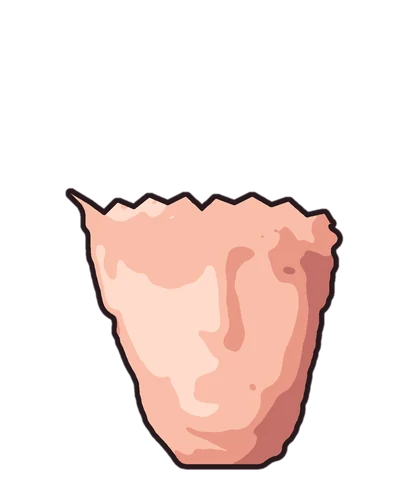
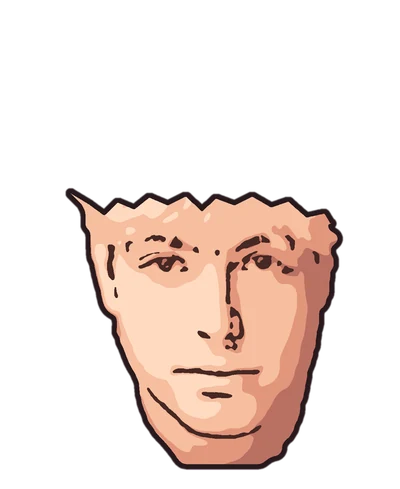
Gem: viso con i lineamenti veri della foto al posto di quelli disegnati
Occhi, sopracciglia, naso e bocca tornano quelli della foto, a ombre
piatte e tratti a inchiostro; via orecchie, guance e ghigno vettoriali che
deformavano il viso. Frangia argento più alta per lasciare scoperti occhi e
sopracciglia; al posto di palpebre e bocca animate, mentre parla la testa
fa un cenno.

Claude-Session: https://claude.ai/code/session_014retLKvTUoh9JjG1YmHHGV

diff --git a/src/components/tour/clash/GemCharacter.tsx b/src/components/tour/clash/GemCharacter.tsx
@@ -4,11 +4,12 @@ const FACE_SRC = "/tour/gem-viso.webp";
 
 /** Gem, il boia dei Test fisici: caricatura in stile "Clash" di un
  * allenatore vestito da boia — cappuccio abbassato, imbracatura di cuoio,
- * scure a doppia lama e fischietto. Il viso è un'immagine a ombre piatte
- * ricavata da una foto (public/tour/gem-viso.webp); capelli, orecchie,
- * occhi, bocca e costume sono vettoriali, così occhi e bocca si possono
- * animare (vedi .gem-* in globals.css). Gli id interni passano da useId:
- * due istanze nella stessa pagina non si rubano clipPath e maschere. */
+ * scure a doppia lama e fischietto. Il viso, con i suoi lineamenti veri, è
+ * un'immagine a ombre piatte e tratti a inchiostro ricavata da una foto
+ * (public/tour/gem-viso.webp); capelli e costume sono vettoriali. Mentre
+ * "parla" la testa fa un cenno (vedi .gem-head in globals.css). Gli id
+ * interni passano da useId: due istanze nella stessa pagina non si rubano
+ * clipPath e maschere. */
 export function GemCharacter({ className, talking = false }: { className?: string; talking?: boolean }) {
   const uid = useSvgUid();
 
@@ -247,188 +248,68 @@ function useSvgUid() {
   return useId().replace(/[^a-zA-Z0-9_-]/g, "");
 }
 
-/** Capelli, viso, orecchie e lineamenti, nelle coordinate della testa. */
+/** Viso e capelli, nelle coordinate della testa. */
 function GemHeadArt({ uid }: { uid: string }) {
   return (
     <>
-      {/* orecchie (dietro al viso) */}
-      <g stroke="#28191D" strokeWidth="10" strokeLinejoin="round">
-        <path d="M138 408 C112 392 92 404 94 432 C96 462 116 482 146 480 Z" fill="#F1A58C" />
-        <path d="M492 414 C518 398 538 410 536 438 C534 466 514 486 486 484 Z" fill="#F1A58C" />
-      </g>
-      <path
-        d="M126 418 C112 418 108 436 114 452 C118 462 126 466 134 464"
-        fill="none"
-        stroke="#C9776A"
-        strokeWidth="5"
-        strokeLinecap="round"
-      />
-      <path
-        d="M504 424 C518 424 522 442 516 458 C512 468 504 472 496 470"
-        fill="none"
-        stroke="#C9776A"
-        strokeWidth="5"
-        strokeLinecap="round"
-      />
-      <image href={FACE_SRC} x="0" y="0" width="605" height="740" />
-      <mask id={`${uid}faceAlpha`} style={{ maskType: "alpha" }}>
+      <g className="gem-head">
         <image href={FACE_SRC} x="0" y="0" width="605" height="740" />
-      </mask>
-      {/* capelli */}
-      <defs>
-        <clipPath id={`${uid}hairClip`}>
-          <path d="M127 318 Q100 319 89 310 Q86 280 82 252 Q51 252 38 243 Q42 211 45 182 Q12 164 7 154 Q40 133 69 112 Q63 86 69 83 Q105 79 138 73 Q143 52 152 49 Q184 52 214 53 Q223 24 232 18 Q262 38 290 55 Q312 29 340 27 Q349 34 360 39 Q395 25 423 30 Q426 50 432 68 Q472 66 496 86 Q494 99 495 111 Q533 99 562 105 Q559 125 559 144 Q586 173 591 200 Q570 208 553 218 Q577 251 577 281 Q558 287 543 296 Q550 335 538 360 Q520 354 503 352 Q531 378 522 404 Q514 372 486 348 Q480 387 462 398 Q456 366 430 342 Q421 380 400 390 Q396 360 372 338 Q361 382 338 398 Q312 365 306 340 Q280 379 266 390 Q241 360 236 338 Q207 380 190 394 Q165 365 160 344 Q138 361 128 350 Q114 334 127 318 Z" />
-        </clipPath>
-      </defs>
-      <path
-        mask={`url(#${uid}faceAlpha)`}
-        transform="translate(0 14)"
-        d="M127 318 Q100 319 89 310 Q86 280 82 252 Q51 252 38 243 Q42 211 45 182 Q12 164 7 154 Q40 133 69 112 Q63 86 69 83 Q105 79 138 73 Q143 52 152 49 Q184 52 214 53 Q223 24 232 18 Q262 38 290 55 Q312 29 340 27 Q349 34 360 39 Q395 25 423 30 Q426 50 432 68 Q472 66 496 86 Q494 99 495 111 Q533 99 562 105 Q559 125 559 144 Q586 173 591 200 Q570 208 553 218 Q577 251 577 281 Q558 287 543 296 Q550 335 538 360 Q520 354 503 352 Q531 378 522 404 Q514 372 486 348 Q480 387 462 398 Q456 366 430 342 Q421 380 400 390 Q396 360 372 338 Q361 382 338 398 Q312 365 306 340 Q280 379 266 390 Q241 360 236 338 Q207 380 190 394 Q165 365 160 344 Q138 361 128 350 Q114 334 127 318 Z"
-        fill="#E0977B"
-      />
-      <path
-        d="M127 318 Q100 319 89 310 Q86 280 82 252 Q51 252 38 243 Q42 211 45 182 Q12 164 7 154 Q40 133 69 112 Q63 86 69 83 Q105 79 138 73 Q143 52 152 49 Q184 52 214 53 Q223 24 232 18 Q262 38 290 55 Q312 29 340 27 Q349 34 360 39 Q395 25 423 30 Q426 50 432 68 Q472 66 496 86 Q494 99 495 111 Q533 99 562 105 Q559 125 559 144 Q586 173 591 200 Q570 208 553 218 Q577 251 577 281 Q558 287 543 296 Q550 335 538 360 Q520 354 503 352 Q531 378 522 404 Q514 372 486 348 Q480 387 462 398 Q456 366 430 342 Q421 380 400 390 Q396 360 372 338 Q361 382 338 398 Q312 365 306 340 Q280 379 266 390 Q241 360 236 338 Q207 380 190 394 Q165 365 160 344 Q138 361 128 350 Q114 334 127 318 Z"
-        fill="#F2EFEB"
-      />
-      <g clipPath={`url(#${uid}hairClip)`}>
+        <mask id={`${uid}faceAlpha`} style={{ maskType: "alpha" }}>
+          <image href={FACE_SRC} x="0" y="0" width="605" height="740" />
+        </mask>
+        {/* capelli */}
+        <defs>
+          <clipPath id={`${uid}hairClip`}>
+            <path d="M127 318 Q100 319 89 310 Q86 280 82 252 Q51 252 38 243 Q42 211 45 182 Q12 164 7 154 Q40 133 69 112 Q63 86 69 83 Q105 79 138 73 Q143 52 152 49 Q184 52 214 53 Q223 24 232 18 Q262 38 290 55 Q312 29 340 27 Q349 34 360 39 Q395 25 423 30 Q426 50 432 68 Q472 66 496 86 Q494 99 495 111 Q533 99 562 105 Q559 125 559 144 Q586 173 591 200 Q570 208 553 218 Q577 251 577 281 Q558 287 543 296 Q550 335 538 360 Q520 354 503 352 Q531 376 522 400 Q514 368 486 344 Q478 370 458 368 Q454 349 430 338 Q422 364 402 362 Q397 344 372 334 Q361 364 338 366 Q312 347 306 336 Q282 362 270 360 Q244 343 238 334 Q211 365 196 368 Q168 350 160 340 Q138 358 128 348 Q114 333 127 318 Z" />
+          </clipPath>
+        </defs>
         <path
-          d="M60 300 C160 262 300 280 420 250 C480 236 520 200 560 150 L640 150 L640 460 L40 460 Z"
-          fill="#DAD3D0"
+          mask={`url(#${uid}faceAlpha)`}
+          transform="translate(0 14)"
+          d="M127 318 Q100 319 89 310 Q86 280 82 252 Q51 252 38 243 Q42 211 45 182 Q12 164 7 154 Q40 133 69 112 Q63 86 69 83 Q105 79 138 73 Q143 52 152 49 Q184 52 214 53 Q223 24 232 18 Q262 38 290 55 Q312 29 340 27 Q349 34 360 39 Q395 25 423 30 Q426 50 432 68 Q472 66 496 86 Q494 99 495 111 Q533 99 562 105 Q559 125 559 144 Q586 173 591 200 Q570 208 553 218 Q577 251 577 281 Q558 287 543 296 Q550 335 538 360 Q520 354 503 352 Q531 376 522 400 Q514 368 486 344 Q478 370 458 368 Q454 349 430 338 Q422 364 402 362 Q397 344 372 334 Q361 364 338 366 Q312 347 306 336 Q282 362 270 360 Q244 343 238 334 Q211 365 196 368 Q168 350 160 340 Q138 358 128 348 Q114 333 127 318 Z"
+          fill="#E0977B"
         />
-        <path d="M120 352 C220 320 420 318 560 350 L560 460 L120 460 Z" fill="#C4BAB8" />
-        <path d="M229 235 Q154 263 89 310 Q158 272 236 249 Z" fill="#CCC3C0" />
-        <path d="M212 208 Q123 214 38 243 Q125 224 214 224 Z" fill="#CCC3C0" />
-        <path d="M202 175 Q106 152 7 154 Q105 162 200 191 Z" fill="#CCC3C0" />
-        <path d="M228 148 Q153 106 69 83 Q149 114 221 163 Z" fill="#CCC3C0" />
-        <path d="M262 137 Q213 86 152 49 Q207 93 251 149 Z" fill="#CCC3C0" />
-        <path d="M294 127 Q270 69 232 18 Q262 73 279 134 Z" fill="#CCC3C0" />
-        <path d="M335 135 Q345 82 340 27 Q335 81 319 133 Z" fill="#CCC3C0" />
-        <path d="M366 139 Q401 89 423 30 Q393 84 352 131 Z" fill="#CCC3C0" />
-        <path d="M391 163 Q448 132 496 86 Q443 124 382 150 Z" fill="#CCC3C0" />
-        <path d="M415 171 Q492 148 562 105 Q489 139 409 156 Z" fill="#CCC3C0" />
-        <path d="M423 208 Q507 215 591 200 Q507 205 423 192 Z" fill="#CCC3C0" />
-        <path d="M415 238 Q493 270 577 281 Q496 261 420 223 Z" fill="#CCC3C0" />
-        <path d="M398 267 Q462 322 538 360 Q467 315 408 254 Z" fill="#CCC3C0" />
-        <path d="M432 320 Q442 360 462 398 Q450 358 445 316 Z" fill="#B3A8A6" />
-        <path d="M380 311 Q386 351 400 390 Q394 350 394 309 Z" fill="#B3A8A6" />
-        <path d="M330 318 Q329 358 338 398 Q337 358 344 318 Z" fill="#B3A8A6" />
-        <path d="M271 309 Q264 349 266 390 Q272 350 284 311 Z" fill="#B3A8A6" />
-        <path d="M209 312 Q195 351 190 394 Q203 354 222 316 Z" fill="#B3A8A6" />
-        <path d="M303 139 Q233 101 150 110 Q229 114 297 161 Z" fill="#FFFFFF" />
-        <path d="M340 140 Q328 100 330 60 Q316 100 320 140 Z" fill="#FFFFFF" />
-        <path d="M353 158 Q406 116 470 100 Q402 106 347 142 Z" fill="#FFFFFF" />
-        <path d="M279 181 Q198 170 120 200 Q199 181 281 199 Z" fill="#FFFFFF" />
-      </g>
-      <path
-        d="M127 318 Q100 319 89 310 Q86 280 82 252 Q51 252 38 243 Q42 211 45 182 Q12 164 7 154 Q40 133 69 112 Q63 86 69 83 Q105 79 138 73 Q143 52 152 49 Q184 52 214 53 Q223 24 232 18 Q262 38 290 55 Q312 29 340 27 Q349 34 360 39 Q395 25 423 30 Q426 50 432 68 Q472 66 496 86 Q494 99 495 111 Q533 99 562 105 Q559 125 559 144 Q586 173 591 200 Q570 208 553 218 Q577 251 577 281 Q558 287 543 296 Q550 335 538 360 Q520 354 503 352 Q531 378 522 404 Q514 372 486 348 Q480 387 462 398 Q456 366 430 342 Q421 380 400 390 Q396 360 372 338 Q361 382 338 398 Q312 365 306 340 Q280 379 266 390 Q241 360 236 338 Q207 380 190 394 Q165 365 160 344 Q138 361 128 350 Q114 334 127 318 Z"
-        fill="none"
-        stroke="#28191D"
-        strokeWidth="13"
-        strokeLinejoin="round"
-      />
-      <defs>
-        <clipPath id={`${uid}eyeL`}>
-          <path
-            id={`${uid}eyeLShape`}
-            d="M212 404 C224 391 252 389 284 398 C279 412 265 420 249 420 C233 420 219 414 212 404 Z"
-          />
-        </clipPath>
-        <clipPath id={`${uid}eyeR`}>
-          <path
-            id={`${uid}eyeRShape`}
-            d="M429 403 C417 390 391 388 357 397 C362 411 376 419 392 419 C408 419 422 413 429 403 Z"
-          />
-        </clipPath>
-        <clipPath id={`${uid}mouthClip`}>
-          <path
-            id={`${uid}mouthShape`}
-            d="M276 560 C306 570 348 565 386 542 C382 575 358 592 330 592 C302 592 284 580 276 560 Z"
-          />
-        </clipPath>
-      </defs>
-      {/* guance rosate */}
-      <ellipse cx="216" cy="474" rx="36" ry="19" fill="#F27D7D" opacity="0.32" />
-      <ellipse cx="436" cy="470" rx="32" ry="17" fill="#F27D7D" opacity="0.32" />
-      {/* sopracciglia: il sinistro alzato, sguardo furbo */}
-      <path
-        d="M198 366 C228 344 264 346 296 364 L293 377 C263 362 232 362 204 378 Z"
-        fill="#7A6153"
-        stroke="#28191D"
-        strokeWidth="4"
-        strokeLinejoin="round"
-      />
-      <path
-        d="M444 376 C414 364 382 364 348 374 L350 387 C382 378 412 378 440 388 Z"
-        fill="#7A6153"
-        stroke="#28191D"
-        strokeWidth="4"
-        strokeLinejoin="round"
-      />
-      {/* occhi: palpebre pesanti, sguardo di lato */}
-      <g className="gem-eye">
-        <use href={`#${uid}eyeLShape`} fill="#FFFFFF" />
-        <g clipPath={`url(#${uid}eyeL)`}>
-          <circle cx="257" cy="409" r="13" fill="#6F8C86" />
-          <circle cx="259" cy="409" r="6.5" fill="#1C1719" />
-          <circle cx="262" cy="404" r="3.5" fill="#fff" />
-        </g>
-        <use href={`#${uid}eyeLShape`} fill="none" stroke="#28191D" strokeWidth="5" strokeLinejoin="round" />
         <path
-          d="M207 405 C221 388 252 385 288 398"
+          d="M127 318 Q100 319 89 310 Q86 280 82 252 Q51 252 38 243 Q42 211 45 182 Q12 164 7 154 Q40 133 69 112 Q63 86 69 83 Q105 79 138 73 Q143 52 152 49 Q184 52 214 53 Q223 24 232 18 Q262 38 290 55 Q312 29 340 27 Q349 34 360 39 Q395 25 423 30 Q426 50 432 68 Q472 66 496 86 Q494 99 495 111 Q533 99 562 105 Q559 125 559 144 Q586 173 591 200 Q570 208 553 218 Q577 251 577 281 Q558 287 543 296 Q550 335 538 360 Q520 354 503 352 Q531 376 522 400 Q514 368 486 344 Q478 370 458 368 Q454 349 430 338 Q422 364 402 362 Q397 344 372 334 Q361 364 338 366 Q312 347 306 336 Q282 362 270 360 Q244 343 238 334 Q211 365 196 368 Q168 350 160 340 Q138 358 128 348 Q114 333 127 318 Z"
+          fill="#F2EFEB"
+        />
+        <g clipPath={`url(#${uid}hairClip)`}>
+          <path
+            d="M60 300 C160 262 300 280 420 250 C480 236 520 200 560 150 L640 150 L640 460 L40 460 Z"
+            fill="#DAD3D0"
+          />
+          <path d="M120 352 C220 320 420 318 560 350 L560 460 L120 460 Z" fill="#C4BAB8" />
+          <path d="M229 235 Q154 263 89 310 Q158 272 236 249 Z" fill="#CCC3C0" />
+          <path d="M212 208 Q123 214 38 243 Q125 224 214 224 Z" fill="#CCC3C0" />
+          <path d="M202 175 Q106 152 7 154 Q105 162 200 191 Z" fill="#CCC3C0" />
+          <path d="M228 148 Q153 106 69 83 Q149 114 221 163 Z" fill="#CCC3C0" />
+          <path d="M262 137 Q213 86 152 49 Q207 93 251 149 Z" fill="#CCC3C0" />
+          <path d="M294 127 Q270 69 232 18 Q262 73 279 134 Z" fill="#CCC3C0" />
+          <path d="M335 135 Q345 82 340 27 Q335 81 319 133 Z" fill="#CCC3C0" />
+          <path d="M366 139 Q401 89 423 30 Q393 84 352 131 Z" fill="#CCC3C0" />
+          <path d="M391 163 Q448 132 496 86 Q443 124 382 150 Z" fill="#CCC3C0" />
+          <path d="M415 171 Q492 148 562 105 Q489 139 409 156 Z" fill="#CCC3C0" />
+          <path d="M423 208 Q507 215 591 200 Q507 205 423 192 Z" fill="#CCC3C0" />
+          <path d="M415 238 Q493 270 577 281 Q496 261 420 223 Z" fill="#CCC3C0" />
+          <path d="M398 267 Q462 322 538 360 Q467 315 408 254 Z" fill="#CCC3C0" />
+          <path d="M428 290 Q438 330 458 368 Q447 328 442 286 Z" fill="#B3A8A6" />
+          <path d="M382 283 Q387 323 402 362 Q396 322 396 281 Z" fill="#B3A8A6" />
+          <path d="M330 286 Q329 326 338 366 Q337 326 344 286 Z" fill="#B3A8A6" />
+          <path d="M274 279 Q267 319 270 360 Q276 320 288 281 Z" fill="#B3A8A6" />
+          <path d="M213 286 Q200 326 196 368 Q208 328 227 290 Z" fill="#B3A8A6" />
+          <path d="M303 139 Q233 101 150 110 Q229 114 297 161 Z" fill="#FFFFFF" />
+          <path d="M340 140 Q328 100 330 60 Q316 100 320 140 Z" fill="#FFFFFF" />
+          <path d="M353 158 Q406 116 470 100 Q402 106 347 142 Z" fill="#FFFFFF" />
+          <path d="M279 181 Q198 170 120 200 Q199 181 281 199 Z" fill="#FFFFFF" />
+        </g>
+        <path
+          d="M127 318 Q100 319 89 310 Q86 280 82 252 Q51 252 38 243 Q42 211 45 182 Q12 164 7 154 Q40 133 69 112 Q63 86 69 83 Q105 79 138 73 Q143 52 152 49 Q184 52 214 53 Q223 24 232 18 Q262 38 290 55 Q312 29 340 27 Q349 34 360 39 Q395 25 423 30 Q426 50 432 68 Q472 66 496 86 Q494 99 495 111 Q533 99 562 105 Q559 125 559 144 Q586 173 591 200 Q570 208 553 218 Q577 251 577 281 Q558 287 543 296 Q550 335 538 360 Q520 354 503 352 Q531 376 522 400 Q514 368 486 344 Q478 370 458 368 Q454 349 430 338 Q422 364 402 362 Q397 344 372 334 Q361 364 338 366 Q312 347 306 336 Q282 362 270 360 Q244 343 238 334 Q211 365 196 368 Q168 350 160 340 Q138 358 128 348 Q114 333 127 318 Z"
           fill="none"
           stroke="#28191D"
-          strokeWidth="9"
-          strokeLinecap="round"
-        />
-        <path
-          d="M220 386 C236 378 258 377 278 383"
-          fill="none"
-          stroke="#C47866"
-          strokeWidth="4"
-          strokeLinecap="round"
+          strokeWidth="13"
+          strokeLinejoin="round"
         />
       </g>
-      <g className="gem-eye">
-        <use href={`#${uid}eyeRShape`} fill="#FFFFFF" />
-        <g clipPath={`url(#${uid}eyeR)`}>
-          <circle cx="399" cy="408" r="13" fill="#6F8C86" />
-          <circle cx="401" cy="408" r="6.5" fill="#1C1719" />
-          <circle cx="404" cy="403" r="3.5" fill="#fff" />
-        </g>
-        <use href={`#${uid}eyeRShape`} fill="none" stroke="#28191D" strokeWidth="5" strokeLinejoin="round" />
-        <path
-          d="M434 404 C420 387 390 384 353 397"
-          fill="none"
-          stroke="#28191D"
-          strokeWidth="9"
-          strokeLinecap="round"
-        />
-        <path
-          d="M420 386 C404 378 384 377 364 383"
-          fill="none"
-          stroke="#C47866"
-          strokeWidth="4"
-          strokeLinecap="round"
-        />
-      </g>
-      {/* bocca: ghigno storto */}
-      <g className="gem-mouth">
-        <use href={`#${uid}mouthShape`} fill="#6A1F2A" />
-        <g clipPath={`url(#${uid}mouthClip)`}>
-          <path d="M260 550 C302 574 350 568 402 536 L402 566 C350 582 302 584 260 572 Z" fill="#FFFFFF" />
-          <path d="M306 586 C320 578 342 578 356 586 C346 598 314 600 306 586 Z" fill="#D9606A" />
-          <path d="M312 568 V590 M338 566 V590 M362 556 V584" stroke="#E2DAD3" strokeWidth="2.5" />
-        </g>
-        <use href={`#${uid}mouthShape`} fill="none" stroke="#28191D" strokeWidth="6" strokeLinejoin="round" />
-        <path
-          d="M266 552 C270 559 274 562 282 563 M396 530 C394 539 390 544 382 547"
-          fill="none"
-          stroke="#28191D"
-          strokeWidth="5"
-          strokeLinecap="round"
-        />
-      </g>
-      <path d="M308 610 C322 615 340 615 352 608" fill="none" stroke="#D08470" strokeWidth="5" strokeLinecap="round" />
     </>
   );
 }

diff --git a/src/app/globals.css b/src/app/globals.css
@@ -482,8 +482,8 @@
 }
 
 /* Tour "videogioco" di Gem, il boia (src/components/tour/clash/, pagina
-   Test fisici): il personaggio sbuca dal basso, ondeggia, sbatte le palpebre e
-   muove la bocca finché il testo del fumetto sta comparendo. Stessa
+   Test fisici): il personaggio sbuca dal basso, ondeggia e fa cenni con la
+   testa finché il testo del fumetto sta comparendo. Stessa
    convenzione delle animazioni sopra; con prefers-reduced-motion resta
    tutto fermo (motion-safe: nei componenti, media query qui sotto). */
 @keyframes gem-enter {
@@ -503,23 +503,13 @@
     transform: translateY(-1.5%) rotate(-0.8deg);
   }
 }
-@keyframes gem-blink {
-  0%,
-  93%,
-  100% {
-    transform: scaleY(1);
-  }
-  96.5% {
-    transform: scaleY(0.08);
-  }
-}
-@keyframes gem-talk {
+@keyframes gem-nod {
   0%,
   100% {
-    transform: scaleY(1);
+    transform: rotate(0deg) translateY(0);
   }
   50% {
-    transform: scaleY(0.5);
+    transform: rotate(-2.5deg) translateY(-1%);
   }
 }
 @keyframes clash-pop {
@@ -586,21 +576,15 @@
   }
 }
 
-.gem-eye {
+.gem-head {
   transform-box: fill-box;
-  transform-origin: center;
-  animation: gem-blink 4.2s ease-in-out infinite;
+  transform-origin: 50% 90%;
 }
-.gem-mouth {
-  transform-box: fill-box;
-  transform-origin: 50% 15%;
-}
-[data-talking] .gem-mouth {
-  animation: gem-talk 0.24s ease-in-out infinite;
+[data-talking] .gem-head {
+  animation: gem-nod 0.5s ease-in-out infinite;
 }
 @media (prefers-reduced-motion: reduce) {
-  .gem-eye,
-  [data-talking] .gem-mouth {
+  [data-talking] .gem-head {
     animation: none;
   }
 }
